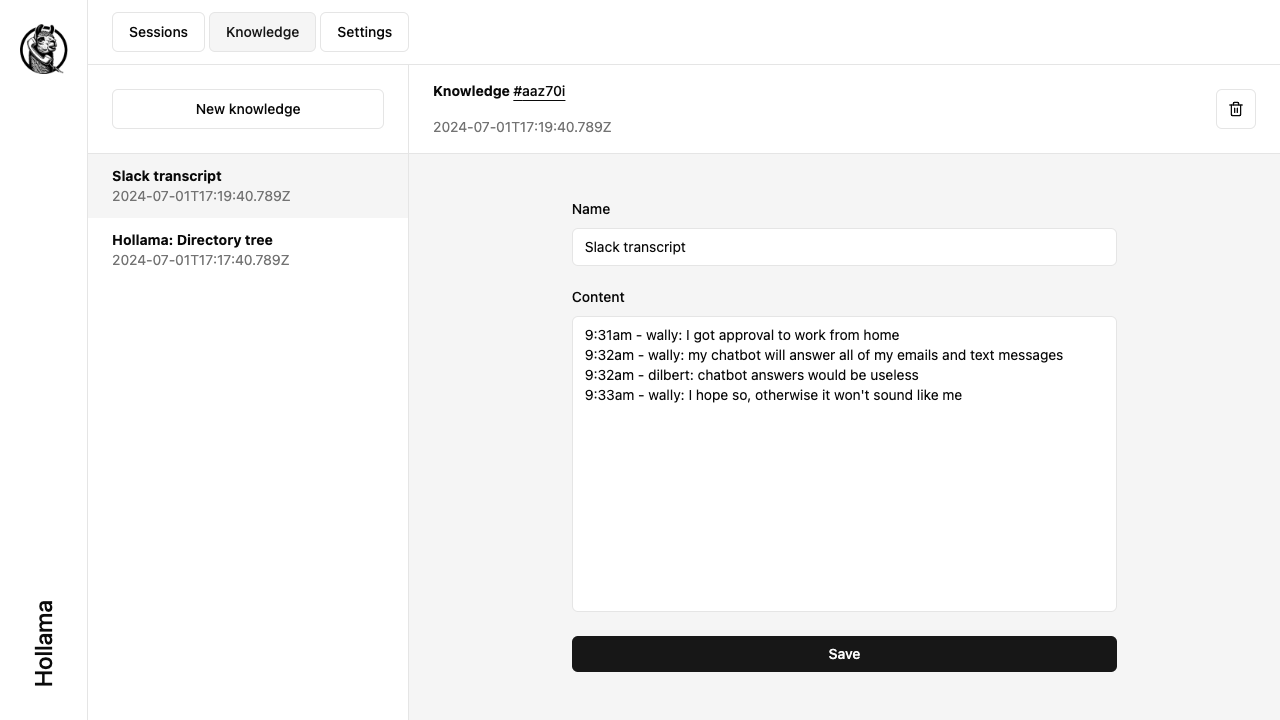
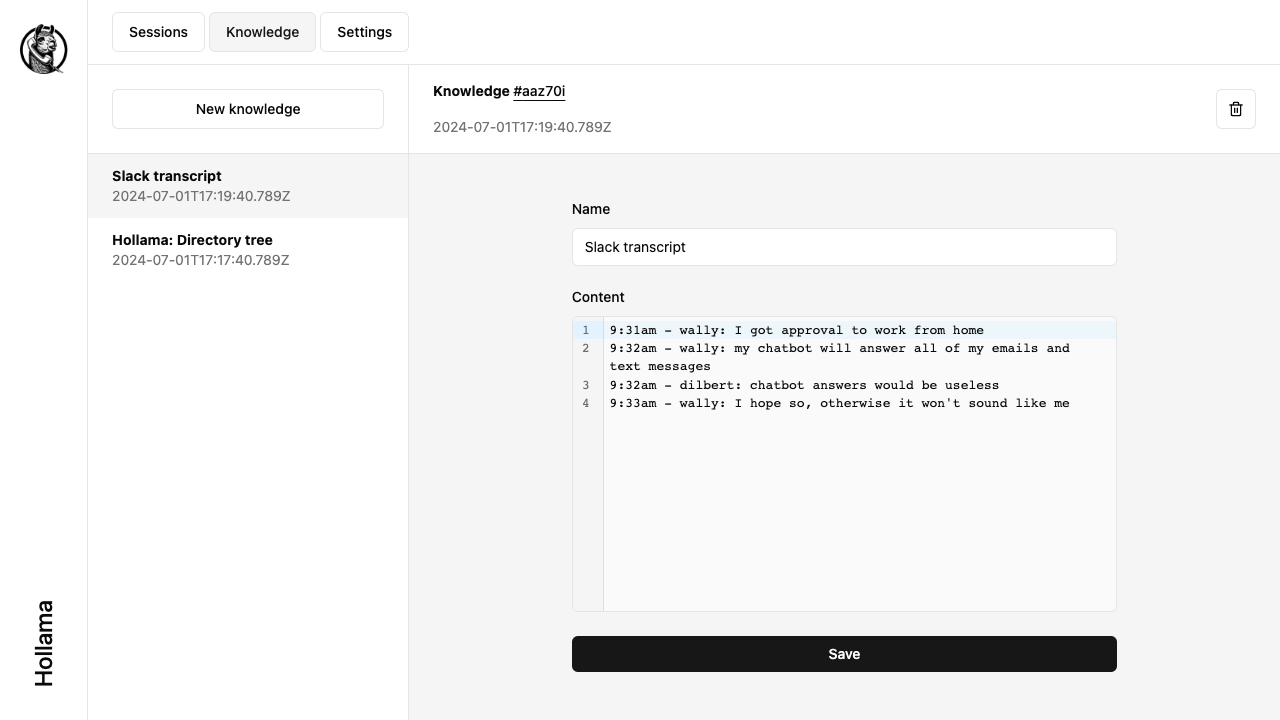
fix knowledge tests

Changed region(s): [[0.4375, 0.4278, 0.8438, 0.5806]]

diff --git a/tests/knowledge.test.ts b/tests/knowledge.test.ts
@@ -1,10 +1,11 @@
 import { expect, test } from '@playwright/test';
-import { MOCK_KNOWLEDGE, MOCK_SESSION_WITH_KNOWLEDGE_RESPONSE_1, chooseModelFromSettings, mockCompletionResponse, mockTagsResponse, seedKnowledgeAndReload } from './mocks';
+import { MOCK_KNOWLEDGE, MOCK_SESSION_WITH_KNOWLEDGE_RESPONSE_1, chooseModelFromSettings, mockCompletionResponse, mockTagsResponse, seedKnowledgeAndReload, textEditorLocator } from './utils';
 
 test('creates and edits knowledge', async ({ page }) => {
 	const timestamp = page.getByTestId('knowledge-timestamp')
 	const fieldName = page.getByLabel('Name');
-	const fieldContent = page.getByLabel('Content');
+	// const fieldContent = page.getByLabel('Content');
+	const fieldContent = textEditorLocator(page, 'Content');
 	const buttonSave = page.getByText('Save');
 	const noKnowledgeMessage = page.getByText('No knowledge');
 	const mockedKnowledgeInSidebar = page.locator('.section-list', { hasText: MOCK_KNOWLEDGE[0].name });
@@ -105,7 +106,7 @@ test('can use knowledge in the session', async ({ page }) => {
 
 	// Create a new session with knowledge
 	await page.getByLabel('Knowledge', { exact: true }).selectOption(MOCK_KNOWLEDGE[0].name);
-	await page.getByLabel('Prompt').fill('What is this about?');
+	await textEditorLocator(page, 'Prompt').fill('What is this about?');
 	await page.getByText('Send').click();
 	expect(await sessionArticle.count()).toBe(3);
 	expect(await sessionArticle.first().textContent()).toContain(MOCK_KNOWLEDGE[0].name);

diff --git a/tests/session.test.ts b/tests/session.test.ts
@@ -1,5 +1,5 @@
 import { expect, test, type Locator } from '@playwright/test';
-import { MOCK_SESSION_1_RESPONSE_1, MOCK_SESSION_1_RESPONSE_2, MOCK_SESSION_1_RESPONSE_3, MOCK_SESSION_2_RESPONSE_1, chooseModelFromSettings, mockCompletionResponse, mockTagsResponse } from './mocks';
+import { MOCK_SESSION_1_RESPONSE_1, MOCK_SESSION_1_RESPONSE_2, MOCK_SESSION_1_RESPONSE_3, MOCK_SESSION_2_RESPONSE_1, chooseModelFromSettings, mockCompletionResponse, mockTagsResponse, textEditorLocator } from './utils';
 
 
 test.describe('Session', () => {
@@ -7,7 +7,7 @@ test.describe('Session', () => {
 
 	test.beforeEach(async ({ page }) => {
 		await mockTagsResponse(page);
-		promptTextarea = page.locator('.field').filter({ hasText: "Prompt" }).getByRole('textbox');
+		promptTextarea = textEditorLocator(page, 'Prompt');
 	});
 
 	test('creates new session and chats', async ({ page }) => {

diff --git a/tests/utils.ts b/tests/utils.ts
@@ -1,6 +1,6 @@
 import type { Knowledge } from "$lib/knowledge";
 import type { OllamaCompletionResponse, OllamaTagResponse } from "$lib/ollama";
-import type { Page, Route } from "@playwright/test";
+import type { Locator, Page, Route } from "@playwright/test";
 
 export const MOCK_API_TAGS_RESPONSE: OllamaTagResponse = {
 	models: [
@@ -155,4 +155,8 @@ export async function seedKnowledgeAndReload(page: Page) {
 
 	// Reload the page for changes to take effect
 	await page.reload();
+}
+
+export function textEditorLocator(page: Page, label: string | RegExp | undefined): Locator {
+	return page.locator('.field').filter({ hasText: label }).getByRole('textbox');
 }

diff --git a/tests/docs.test.ts b/tests/docs.test.ts
@@ -1,5 +1,5 @@
 import { expect, test } from '@playwright/test';
-import { MOCK_KNOWLEDGE, mockTagsResponse, seedKnowledgeAndReload } from './mocks';
+import { MOCK_KNOWLEDGE, mockTagsResponse, seedKnowledgeAndReload } from './utils';
 
 test.beforeEach(async ({ page }) => {
 	await mockTagsResponse(page);

diff --git a/tests/settings.test.ts b/tests/settings.test.ts
@@ -1,5 +1,5 @@
 import { expect, test } from '@playwright/test';
-import { mockTagsResponse } from './mocks';
+import { mockTagsResponse } from './utils';
 
 test.beforeEach(async ({ page }) => {
 	await mockTagsResponse(page);
